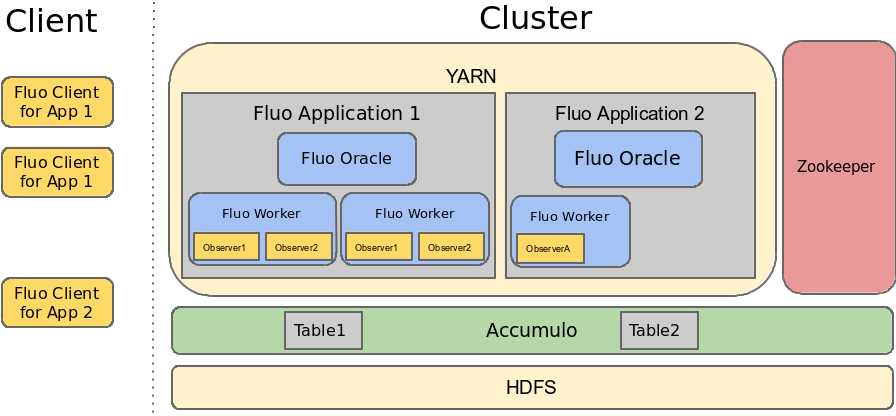
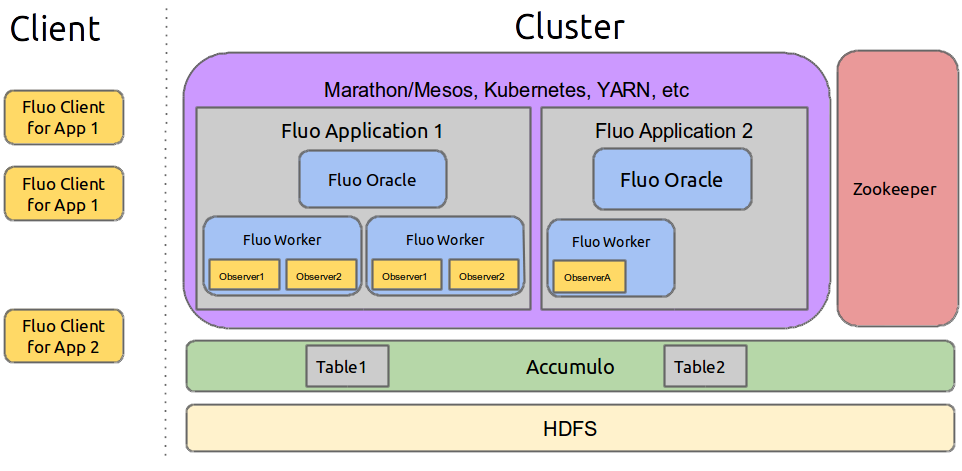
Updated documentation for 1.2 changes
* Updated architecture diagram to include Kubernetes & Mesos
* Updated create app docs for 1.2

diff --git a/_fluo-1-2/getting-started/create-application.md b/_fluo-1-2/getting-started/create-application.md
@@ -73,9 +73,8 @@ It may help to reference the [API javadocs][API] while you are learning the Fluo
 
 To create an observer, follow these steps:
 
-1.  Create one or more classes that extend [Observer] like the example below. Please use [slf4j] for
-    any logging in observers as [slf4j] supports multiple logging implementations. This is
-    necessary as Fluo applications have a hard requirement on [logback] when running in YARN.
+1.  Create one or more classes that extend [Observer] like the example below. It is a good idea to
+    use [slf4j] for any logging in observers as [slf4j] supports multiple logging implementations.
 
     ```java
     public class InvertObserver implements Observer {
@@ -97,13 +96,13 @@ To create an observer, follow these steps:
     ```java
     class AppObserverProvider implements ObserverProvider {
       @Override
-      public void provide(Registry or, Context ctx) {
+      public void provide(Registry reg, Context ctx) {
         //setup InvertObserver to be triggered when the column obs:data is modified
-        or.forColumn(new Column("obs", "data"), NotificationType.STRONG)
+        reg.forColumn(new Column("obs", "data"), NotificationType.STRONG)
           .useObserver(new InvertObserver());
         
         //Observer is a Functional interface.  So Observers can be written as lambdas.
-        or.forColumn(new Column("new","data"), NotificationType.WEAK)
+        reg.forColumn(new Column("new","data"), NotificationType.WEAK)
           .useObserver((tx,row,col) -> {
              Bytes combined = combineNewAndOld(tx,row);
              tx.set(row, new Column("current","data"), combined);
@@ -112,9 +111,11 @@ To create an observer, follow these steps:
     }
     ```
 
-3.  Build a jar containing these classes and include this jar in the `lib/` directory of your Fluo
-    application.
-4.  Configure your Fluo application to use this observer provider by modifying the Application section of
+3.  Build a jar containing these classes. Put this jar and any other dependencies required for your
+    application in a directory. Set `fluo.observer.init.dir` in [fluo-app.properties] to the path of
+    this directory. When your application is initialized, these jars will be loaded to HDFS to make
+    them accessible to all of your Fluo workers on the cluster.
+4.  Configure your Fluo application to use your observer provider by modifying the Application section of
     [fluo-app.properties]. Set `fluo.observer.provider` to the observer provider class name.
 5.  Initialize your Fluo application as described in the next section.  During initialization Fluo
     will obtain the observed columns from the ObserverProvider and persist the columns in Zookeeper.
